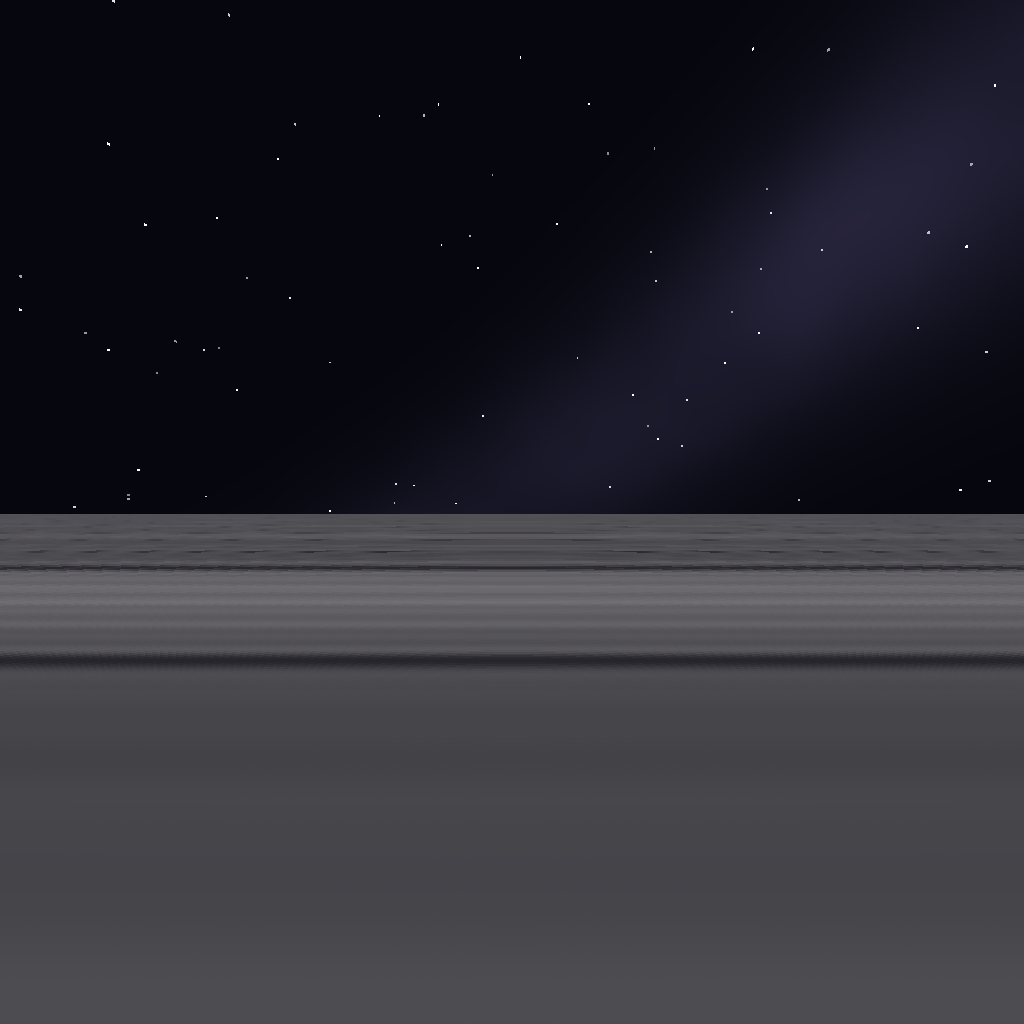
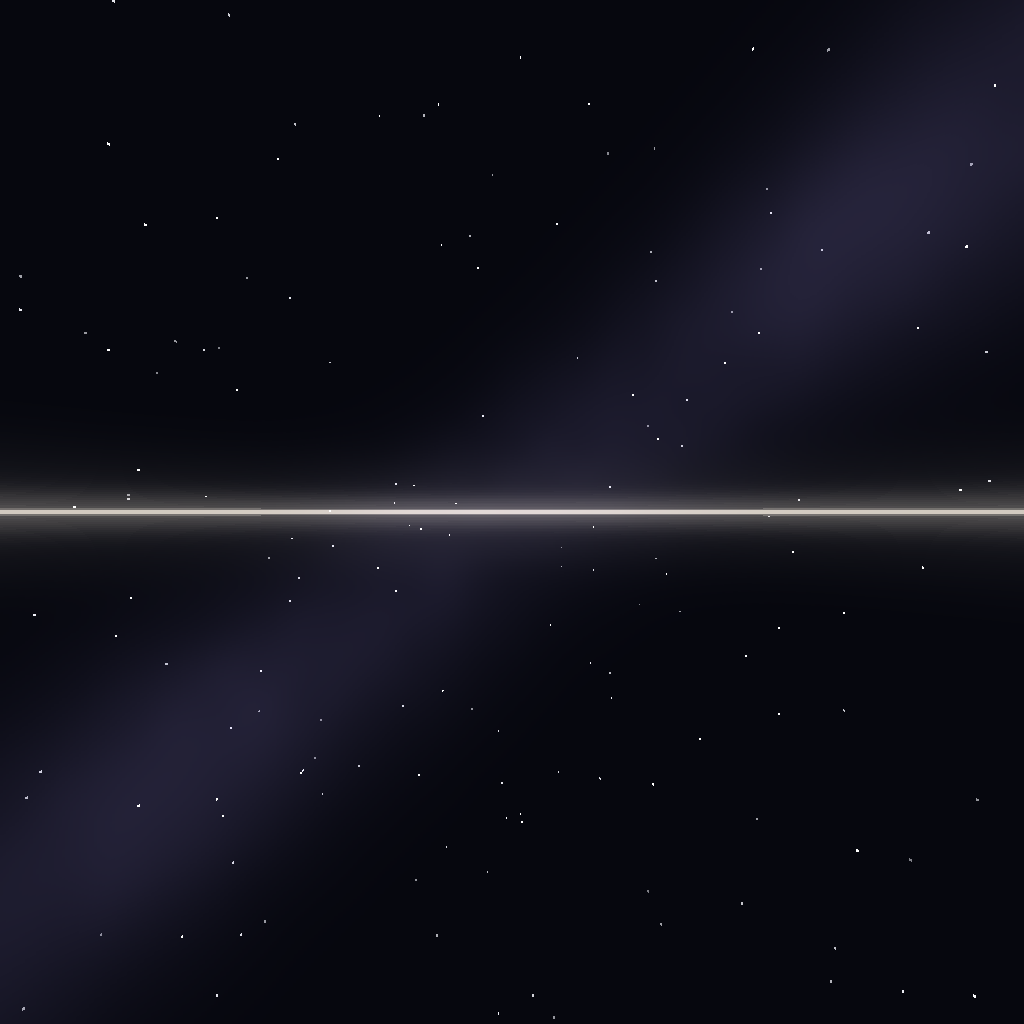
Saturn rework: see-through drifting ring layers, Saturn with its whole ring system
- The opaque banded floor is replaced by three see-through layers of ring
  particles drifting at different speeds, with space between; the sky shows
  the rings edge on as a glowing horizon line.
- Saturn hangs fully above the horizon, clear of the landed rocket, tipped so
  its rings (six smooth CSG bands: C, B, Cassini division, A, Encke gap, F)
  open wide; ring shadow painted on the planet; Titan moved to its day side.
- Planets.rings; Planets.mound uses a smooth ellipsoid (big sunk balls showed
  as flat polygons); globe takes a full rotation; TextureDrift tag.

diff --git a/tools/planets/textures.py b/tools/planets/textures.py
@@ -24,10 +24,10 @@ Outputs:
   jupiter.png        Jupiter for Europa's sky (SBS Gaseous) with the Great Red Spot painted in.
   io.png             Io (SBS Arid) pushed to sulfur yellow, with dark volcanic spots.
   europa_ice.png     A seamless 512x512 overlay of reddish lineae and fine cracks for Europa's ice.
-  saturn.png, enceladus.png, titan.png  Saturn (SBS Gaseous, warmed) and two of its moons.
-  ring_sheet.png     Saturn's rings from within: a dark field crowded with ice particles in bands (opaque).
+  saturn.png, enceladus.png, titan.png  Saturn (SBS Gaseous, warmed, ring shadow) and two moons.
+  ring_speckle.png   One see-through layer of ring particles in bands, for the ring plane round the platform.
   ring_rock.png      A seamless overlay of frost and bare rock for the ring chunk underfoot.
-  saturn_sky_<Face>.png  Stars above; below the horizon the ring plane running on to infinity.
+  saturn_sky_<Face>.png  Stars all round, and the rings edge on as a glowing line on the horizon.
 
 Upload each as an Image and put the ids in ServerScriptService/Services/Planets.luau
 (TEXTURES). Planets.LocalPreview = true uses the --studio copies instead, for
@@ -333,12 +333,18 @@ def europa_ice(rng):
 
 
 def saturn():
-    """Saturn: the pack's pale banded gas giant, warmed toward butterscotch and softened."""
+    """Saturn: the pack's pale banded gas giant, warmed toward butterscotch and softened,
+    with the rings' shadow lying across it just south of the equator (a soft dark band
+    and a fainter one; the planet only spins about its pole, so they stay put)."""
     image = np.asarray(Image.open(os.path.join(PACK, "Gaseous", "Gaseous_13-1024x512.png")).convert("RGB")).astype(float)
     grey = image.mean(axis=2, keepdims=True)
     warm = grey * np.array([1.08, 0.94, 0.70]) * 0.9 + image * 0.25
     mean = warm.mean(axis=(0, 1))
-    return Image.fromarray(np.clip(mean + (warm - mean) * 0.8 + 18, 0, 255).astype(np.uint8), "RGB")
+    image = mean + (warm - mean) * 0.8 + 18
+    h = image.shape[0]
+    lat = (0.5 - (np.arange(h) + 0.5) / h) * 180
+    shade = 1 - 0.45 * np.exp(-((lat + 13) / 2.6) ** 2) - 0.2 * np.exp(-((lat + 19) / 1.6) ** 2)
+    return Image.fromarray(np.clip(image * shade[:, None, None], 0, 255).astype(np.uint8), "RGB")
 
 
 def enceladus(rng):
@@ -380,18 +386,31 @@ def ring_bands(v, rng_seed=41):
     return (0.45 + 0.55 * total ** 1.3) * gaps
 
 
-def ring_sheet(rng):
-    """The ring plane seen from within: a dark field crowded with bright ice particles,
-    denser in the bright ringlets and nearly empty in the gaps, so up close it is a
-    glittering swarm and far off it averages into bands (varying down the image, toward
-    and away from Saturn). Opaque, tiles."""
+def ring_speckle(rng):
+    """One layer of the ring plane round the platform: ice particles on a clear ground
+    (alpha), dense in the bright ringlets and sparse in the gaps (bands down the image,
+    toward and away from Saturn), with a faint haze of the same bands. Laid on three
+    see-through sheets at different heights and scales, drifting at different speeds,
+    they read as a deep swarm with space showing between. Tiles."""
     size = 512
     v = np.arange(size) / size
     bands = ring_bands(v)[:, None] * np.ones((1, size))
-    speckle = rng.random((size, size)) ** 6
-    glow = fbm(size, size, 16, 16, 3, rng) * 0.5 + 0.75
-    rgb = np.array((40, 40, 48)) + np.array((150, 146, 140)) * (bands * glow * 0.55)[..., None] + np.array((255, 252, 246)) * (speckle * bands)[..., None]
-    return Image.fromarray(np.clip(rgb, 0, 255).astype(np.uint8), "RGB")
+    dots = rng.random((size, size))
+    near = dots > 1 - 0.035 * bands
+    big = rng.random((size, size)) > 0.9985
+    alpha = np.where(near, 0.9, 0) + np.where(big, 1, 0)
+    # Grow the big particles to a few pixels so they hold up at a distance.
+    grown = alpha.copy()
+    for dx, dy in ((1, 0), (-1, 0), (0, 1), (0, -1), (1, 1), (-1, -1)):
+        grown = np.maximum(grown, np.roll(np.roll(np.where(big, 1.0, 0), dx, 1), dy, 0))
+    haze = 0.07 * bands * (fbm(size, size, 8, 8, 3, rng) * 0.6 + 0.7)
+    rgba = np.zeros((size, size, 4), dtype=np.uint8)
+    tone = 225 + 30 * rng.random((size, size))
+    rgba[..., 0] = np.clip(tone, 0, 255)
+    rgba[..., 1] = np.clip(tone - 6, 0, 255)
+    rgba[..., 2] = np.clip(tone - 16, 0, 255)
+    rgba[..., 3] = np.clip(np.maximum(grown, haze) * 255, 0, 255)
+    return Image.fromarray(rgba, "RGBA")
 
 
 def ring_rock(rng):
@@ -413,10 +432,8 @@ def ring_rock(rng):
 
 
 def saturn_sky(rng):
-    """An equirectangular sky for the rings: stars and a faint band of the galaxy above,
-    and below the horizon the ring plane running on to infinity (the same bands as the
-    ring sheet, so where the sheet ends the sky carries on). Saturn sits toward -Z, so the
-    bands vary along Z."""
+    """An equirectangular sky for the rings: stars all round, a faint band of the galaxy,
+    and the rings seen edge on as a glowing line along the horizon."""
     w, h = 2048, 1024
     lon = ((np.arange(w) + 0.5) / w - 0.5) * 2 * np.pi
     lat = (0.5 - (np.arange(h) + 0.5) / h) * np.pi
@@ -430,20 +447,12 @@ def saturn_sky(rng):
     rgb += (stars > 0.99985)[..., None] * 120
     galaxy = np.exp(-((dy * 0.8 + dx * 0.6) / 0.18) ** 2) * (fbm(w, h, 12, 6, 4, rng) * 0.8 + 0.2)
     rgb += galaxy[..., None] * np.array((40, 36, 56))
-    # The ring plane, 60 studs below the eye: where a downward ray meets it.
-    below = dy < -0.002
-    depth = 60.0
-    distance = depth / np.maximum(-dy, 1e-4)
-    z = dz * distance
-    bands = ring_bands((z / 900) % 1)
-    fade = np.exp(-distance / 9000)
-    # About as bright as the sheet looks under the sun (the sky itself is never shaded).
-    plane = np.array((30, 30, 36)) + np.array((84, 82, 80)) * (bands * (0.7 + 0.3 * fade))[..., None]
-    # Near the horizon the bands crowd together faster than the faces can show: blend
-    # them into their average there.
-    haze = np.clip(1 - (-dy) / 0.08, 0, 1)[..., None] ** 0.7
-    plane = plane * (1 - haze) + (np.array((30, 30, 36)) + np.array((84, 82, 80)) * ring_bands(np.linspace(0, 1, 512)).mean()) * haze
-    rgb[below] = plane[below]
+    # Edge on, the rings shrink to a bright line on the horizon with a soft glow either
+    # side, strongest toward Saturn (-Z) and fading round to the far side. Below it the
+    # stars carry on: there's open space under the ring layers.
+    toward = 0.65 + 0.35 * np.clip(-dz, 0, 1)
+    line = np.exp(-(dy / 0.004) ** 2) * 1.0 + np.exp(-(dy / 0.03) ** 2) * 0.35 + np.exp(-(dy / 0.09) ** 2) * 0.12
+    rgb += (line * toward)[..., None] * np.array((236, 226, 206))
     return np.clip(rgb, 0, 255).astype(np.uint8)
 
 
@@ -501,7 +510,7 @@ def main():
         "saturn": saturn(),
         "enceladus": enceladus(np.random.default_rng(42)),
         "titan": titan(),
-        "ring_sheet": ring_sheet(np.random.default_rng(43)),
+        "ring_speckle": ring_speckle(np.random.default_rng(43)),
         "ring_rock": ring_rock(np.random.default_rng(44)),
     }
     for name, sky in (("mars_sky", mars_sky(np.random.default_rng(23))), ("saturn_sky", saturn_sky(np.random.default_rng(45)))):

diff --git a/notes/SESSION.md b/notes/SESSION.md
@@ -1,4 +1,28 @@
-# Latest session: 2026-10-19 (4), Saturn's Rings
+# Latest session: 2026-10-19 (5), Saturn rework, then the Black Hole
+
+- Saturn rework on `claude/planet-saturn` (PR #37), after the user's feedback: the ring
+  plane is no longer an opaque banded floor. Three see-through layers of ring particles
+  (`ring_speckle`, alpha) lie at 46, 60 and 76 below the platform, each a 4 x 4 grid of
+  invisible 2048-stud tiles (out to the horizon), scaled 256/512/1024, their textures
+  drifting at different speeds (tag TextureDrift, PlanetController). The sky shows the
+  rings edge on as a glowing horizon line with stars below.
+- Saturn now hangs fully above the horizon at (-1500, 400, -1700), 41 degrees left of the
+  arrival so a landed Tier 4-5 rocket doesn't hide it, its pole tipped 28 degrees toward
+  the player so `Planets.rings` (six annuli cut by CSG from the flattened sphere mesh:
+  smooth, unlike CSG cylinders) open into a wide ellipse. The rings are dark Neon, since
+  the low sun left SmoothPlastic rings a dull grey-brown. The ring shadow is painted onto
+  the Saturn texture. Each ring band costs about 0.45 s of CSG, so Saturn builds in
+  about 2 s.
+- Tried and dropped: one annulus wearing a radial ringlet texture (the cut keeps the
+  sphere's UVs, latitude = radius) came out stair-stepped: too few latitude rows.
+- `Planets.mound` is now a sunk ellipsoid of the sphere mesh: big sunk Ball parts showed
+  as flat polygons (Saturn's frost drifts looked like white squares). This smooths the
+  crater walls, talus and drifts on every destination.
+- New uploads needing access: Saturn 72973342803379, ring speckle 118246725794362, sky Bk
+  96836179595217, Dn 70901967949717, Ft 111141752494092, Lf 94514358915591, Rt
+  117806823065119 (Up unchanged). `ring_sheet` is gone.
+
+# Earlier session: 2026-10-19 (4), Saturn's Rings
 
 - `claude/planet-saturn`, stacked on Europa (PR #36). Europa's images have access.
 - Saturn (`DestinationService` builder 4): the platform is one big ring particle:
